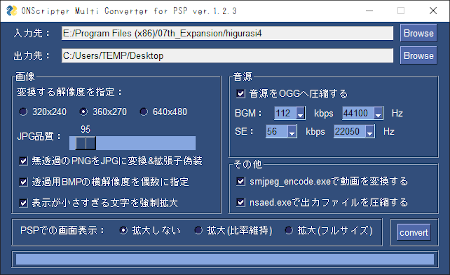
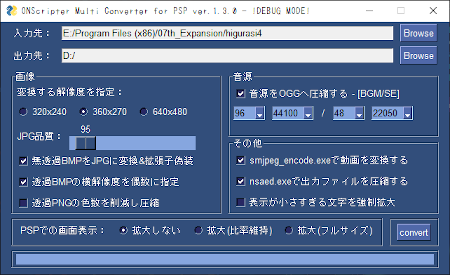
[Update]透過PNG

diff --git a/NSC2ONS4PSP.py b/NSC2ONS4PSP.py
@@ -14,20 +14,34 @@ import os
 import re
 
 ####################################################################################################
-window_title = 'ONScripter Multi Converter for PSP ver.1.2.9'
+window_title = 'ONScripter Multi Converter for PSP ver.1.3.0'
 ####################################################################################################
 
 # -memo-
-# __file__だとexe化時subprocessの相対パス読み込みﾀﾋぬのでsys.argv[0]使う
-# 同じような理由でexit()もsys.exit()にする
-# jsonでの作品個別処理何も実装してねぇ... - v1.3.0で実装
+# __file__だとexe化時subprocessの相対パス読み込みﾀﾋぬのでsys.argv[0]使う - 済
+# 同じような理由でexit()もsys.exit()にする - 済
+# jsonでの作品個別処理何も実装してねぇ... - v1.3.0で実装予定だった - 現在未実装orz
 # os.path.joinを使わないパスの結合をやめないとマズイ気がする - もう無理限界
 
 
-# -最新の更新履歴(v1.2.9)- 
-# .datを弾いてたせいでdat偽装mpgが放置されてたのを修正
-# BGM判定を"ディレクトリ名にbgm(小文字)があるか"から
-#   "名前含むフルパスにBGM(大文字小文字問わず)があるか"に変更
+# -最新の更新履歴(v1.3.0)- 
+# PNG減色圧縮モードの追加
+# !- 非透過PNGは設定関係なく強制圧縮されるようになってます
+#    どうもONS for PSPって背景の色数勝手に落としてるっぽいし...
+#    つまりこの設定で影響が出るのは"256色以上の非透過PNGスプライト"のみ(滅多にないでしょ...?)
+# 上記に伴うUI変更
+#    ちょっとわかりにくくなったけど許して
+# "savedata"ファルダがある作品を変換した際、
+#    勝手に変換後データにも"savedata"ファルダを作成する機能を追加
+# 一部解像度新表記の読み取りに失敗し
+#    勝手に640x480判定になっていたのを修正
+# 画像分割や命令取得の取りこぼしを多少減らした
+#    主にタブとかスペースとか
+# savescreenshot命令を自動削除するように変更
+#    ついでにmpegplay未使用時の命令削除もそれに合わせた書き方に
+# OGG音質設定のビットレート初期値を
+#    それぞれ112→96、56→48へ低下
+
 
 # これを読んだあなた。
 # どうかこんな可読性の欠片もないクソコードを書かないでください。
@@ -176,21 +190,22 @@ frame_1 = sg.Frame('画像', [
 	[sg.Text('JPG品質：'), sg.Slider(range=(100,1), default_value=95, k='jpg_quality', pad=((0,0),(0,0)), orientation='h')],
 	[sg.Checkbox('無透過BMPをJPGに変換&拡張子偽装', k='jpg_mode', default=True)],
 	[sg.Checkbox('透過BMPの横解像度を偶数に指定', k='img_even', default=True)],
-	[sg.Checkbox('表示が小さすぎる文字を強制拡大', k='sw_txtsize', default=True)],
+	[sg.Checkbox('透過PNGの色数を削減し圧縮', k='AlphaPNG_conv', default=False)],
 ], size=(300, 205))
 
 frame_2 = sg.Frame('音源', [
-	[sg.Checkbox('音源をOGGへ圧縮する', k='ogg_mode', default=ffmpeg_exist, disabled=(not ffmpeg_exist))],
-	[sg.Text('BGM：'), sg.Combo(values=(kbps_list), default_value='112', readonly=True, k='BGM_kbps', disabled=(not ffmpeg_exist)), sg.Text('kbps'), 
-	 sg.Combo(values=(Hz_list), default_value='44100', readonly=True, k='BGM_Hz', disabled=(not ffmpeg_exist)), sg.Text('Hz'),],
-	[sg.Text('SE：'), sg.Combo(values=(kbps_list), default_value='56', readonly=True, k='SE_kbps', disabled=(not ffmpeg_exist)), sg.Text('kbps'), 
-	 sg.Combo(values=(Hz_list), default_value='22050', readonly=True, k='SE_Hz', disabled=(not ffmpeg_exist)), sg.Text('Hz'),],
-], size=(300, 125), pad=(0,0))
+	[sg.Checkbox('音源をOGGへ圧縮する - [BGM/SE]', k='ogg_mode', default=ffmpeg_exist, disabled=(not ffmpeg_exist))],
+	[sg.Combo(values=(kbps_list), default_value='96', readonly=True, k='BGM_kbps', disabled=(not ffmpeg_exist)),
+	 sg.Combo(values=(Hz_list), default_value='44100', readonly=True, k='BGM_Hz', disabled=(not ffmpeg_exist)), sg.Text('/'),
+	 sg.Combo(values=(kbps_list), default_value='48', readonly=True, k='SE_kbps', disabled=(not ffmpeg_exist)),
+	 sg.Combo(values=(Hz_list), default_value='22050', readonly=True, k='SE_Hz', disabled=(not ffmpeg_exist)), ],
+], size=(300, 95), pad=(0,0))
 
 frame_3 = sg.Frame('その他', [
 	[sg.Checkbox('smjpeg_encode.exeで動画を変換する', k='vid_flag', default=(smjpeg_exist and ffmpeg_exist), disabled=(not (smjpeg_exist and ffmpeg_exist)))],
 	[sg.Checkbox('nsaed.exeで出力ファイルを圧縮する', k='nsa_mode', default=nsaed_exist, disabled=(not nsaed_exist))],
-], size=(300, 80), pad=(0,0))
+	[sg.Checkbox('表示が小さすぎる文字を強制拡大', k='sw_txtsize', default=False)],
+], size=(300, 110), pad=(0,0))
 
 frame_4 = sg.Frame('', [
 	[sg.Text(' PSPでの画面表示：'), 
@@ -304,7 +319,7 @@ def func_txt_zero(text):
 	global err_flag
 	global per
 
-	newnsc_mode = (r';\$V[0-9]{2,}G([0-9]{2,})S([0-9]{3,}),([0-9]{3,})L[0-9]{2,}')#ONS解像度新表記
+	newnsc_mode = (r';\$V[0-9]{1,}G([0-9]{1,})S([0-9]{1,}),([0-9]{1,})L[0-9]{1,}')#ONS解像度新表記
 	newnsc_search = re.search(newnsc_mode, text)
 	oldnsc_mode = (r';mode([0-9]{3})')#ONS解像度旧表記
 	oldnsc_search = re.search(oldnsc_mode, text)
@@ -362,9 +377,9 @@ def func_txt_all(text):
 	global immode_list_tup
 
 	#-PSPで使用できない命令を無効化する-
-	text = re.sub(r'([\n|\t| |:])avi "(.+?)",([0|1])', r'\1mpegplay "\2",\3', text)#aviをmpegplayで再生(後に拡張子偽装)
-	text = re.sub(r'([\n|\t| |:])okcancelbox %(.+?),', r'\1mov %\2,1 ;', text)#okcancelboxをmovで強制ok
-	text = re.sub(r'([\n|\t| |:])yesnobox %(.+?),', r'\1mov %\2,1 ;', text)#yesnoboxをmovで強制yes
+	text = re.sub(r'([\n|\t| |:])avi[\t\s]+"(.+?)",([0|1]|%[0-9]+)', r'\1mpegplay "\2",\3', text)#aviをmpegplayで再生(後に拡張子偽装)
+	text = re.sub(r'([\n|\t| |:])okcancelbox[\t\s]+%(.+?),', r'\1mov %\2,1 ;', text)#okcancelboxをmovで強制ok
+	text = re.sub(r'([\n|\t| |:])yesnobox[\t\s]+%(.+?),', r'\1mov %\2,1 ;', text)#yesnoboxをmovで強制yes
 
 	text = text.replace('.NBZ', '.wav')#大文字
 	text = text.replace('.nbz', '.wav')#小文字
@@ -398,21 +413,23 @@ def func_txt_all(text):
 	#-txt内の画像の相対パスを格納-
 
 	#[0]が命令文/[3]が(パスの入っている)変数名/[5]が透過形式/[6]が分割数/[8]が相対パス - [3]か[8]はどちらかのみ代入される
-	immode_list_tup += re.findall(r'(ld)[ |\t]+([lcr])[ |\t]*,[ |\t]*((\$?[A-Za-z0-9_]+?)|"(:(.)/?([0-9]+)?(,.+?)?;)?(.+?)")[ |\t]*,[ |\t]*[0-9]+', text)#ld
-	immode_list_tup += re.findall(r'((abs)?setcursor)[ |\t]+%?.+?[ |\t]*,[ |\t]*((\$?[A-Za-z0-9_]+?)|"(:(.)/?([0-9]+)?(,.+?)?;)?(.+?)")([ |\t]*,[ |\t]*(([0-9]{1,3})|(%.+?))){1,3}', text)#setcursor系
-	immode_list_tup += re.findall(r'(lsp(h)?)[ |\t]+%?.+?[ |\t]*,[ |\t]*((\$?[A-Za-z0-9_]+?)|"(:(.)/?([0-9]+)?(,.+?)?;)?(.+?)")([ |\t]*,[ |\t]*(([0-9]{1,3})|(%.+?))){1,3}', text)#lsp系
-	immode_list_tup += re.findall(r'(lsph?2(add|sub)?)[ |\t]+%?.+?[ |\t]*,[ |\t]*((\$?[A-Za-z0-9_]+?)|"(:(.)/?([0-9]+)?(,.+?)?;)?(.+?)")(([ |\t]*,[ |\t]*((-?[0-9]{1,3})|(%.+?))){1,6})?', text)#lsp2系
+	immode_list_tup += re.findall(r'(ld)[\t\s]+([lcr])[\t\s]*,[\t\s]*((\$?[A-Za-z0-9_]+?)|"(:(.)/?([0-9]+)?(,.+?)?;)?(.+?)")[\t\s]*,[\t\s]*[0-9]+', text)#ld
+	immode_list_tup += re.findall(r'((abs)?setcursor)[\t\s]+%?.+?[\t\s]*,[\t\s]*((\$?[A-Za-z0-9_]+?)|"(:(.)/?([0-9]+)?(,.+?)?;)?(.+?)")([\t\s]*,[\t\s]*(([0-9]{1,3})|(%.+?))){1,3}', text)#setcursor系
+	immode_list_tup += re.findall(r'(lsp(h)?)[\t\s]+%?.+?[\t\s]*,[\t\s]*((\$?[A-Za-z0-9_]+?)|"(:(.)/?([0-9]+)?(,.+?)?;)?(.+?)")([\t\s]*,[\t\s]*(([0-9]{1,3})|(%.+?))){1,3}', text)#lsp系
+	immode_list_tup += re.findall(r'(lsph?2(add|sub)?)[\t\s]+%?.+?[\t\s]*,[\t\s]*((\$?[A-Za-z0-9_]+?)|"(:(.)/?([0-9]+)?(,.+?)?;)?(.+?)")(([\t\s]*,[\t\s]*((-?[0-9]{1,3})|(%.+?))){1,6})?', text)#lsp2系
 
 	#[0]が命令文/[1]が変数名/[3]が透過形式/[4]が分割数/[6]が相対パス
-	immode_var_tup += re.findall(r'(stralias|mov)[ |\t]*(\$?[A-Za-z0-9_]+?)[ |\t]*,[ |\t]*"(:(.)/?([0-9]+)?(,.+?)?;)?(.+?)"', text)#パスの入ったmov及びstralias
+	immode_var_tup += re.findall(r'(stralias|mov)[\t\s]*(\$?[A-Za-z0-9_]+?)[\t\s]*,[\t\s]*"(:(.)/?([0-9]+)?(,.+?)?;)?(.+?)"', text)#パスの入ったmov及びstralias
+
+	#savescreenshot抹消(PSPだとクソ重いしほぼ確実に取得サイズずれるし...)
+	text = re.sub(r'savescreenshot2?[\t\s]+"(.+?)"[\t\s]*([:|\n])', r'wait 0\2', text)
 
 	if values['vid_flag']:#動画変換処理を行う場合
 		for a in re.findall(r'mpegplay "(.+?)",([0|1]|%[0-9]+)', text):#txt内の動画の相対パスを格納
 			vid_list_rel.append(a[0])
 
 	else:#動画変換処理を行わない場合
-		text = re.sub(r'mpegplay "(.+?)",([0|1]|%[0-9]+):', r'', text)#if使用時 - 再生部分を抹消
-		text = text.replace('mpegplay ', ';mpegplay ')#再生部分をコメントアウト
+		text = re.sub(r'mpegplay[\t\s]+"(.+?)"[\t\s]*,[\t\s]*([0|1]|%[0-9]+)[\t\s]*([:|\n])', r'wait 0\3', text)
 
 	return text
 
@@ -716,7 +733,7 @@ def func_image_conv(file, file_format):
 					img_mask.putdata(mask_px_list)
 
 	#---立ち絵用横幅偶数指定(ld命令で取りこぼした立ち絵対策)---
-	elif int(img.width) >= 4 and (not immode_nearest) and values['img_even']:#縦横4px以上&透明部分なし&偶数指定ON
+	elif (int(img.width) >= 4) and (not immode_nearest) and values['img_even']:#縦横4px以上&透明部分なし&偶数指定ON
 
 		#---ピクセルの色数を変数に代入---
 		chara_mainL = img.getpixel((1, 1))#本画像部分左上1px - 1
@@ -724,7 +741,7 @@ def func_image_conv(file, file_format):
 		chara_alphaL = img.getpixel((img.width/2, 1))#透過部分左上1px - 3
 		chara_alphaR = img.getpixel((img.width-1, 1))#透過部分右上1px - 4
 
-		if chara_mainL == chara_mainR and chara_alphaL == chara_alphaR == (255,255,255):#1,2が同一&3,4が白	
+		if (chara_mainL == chara_mainR) and (chara_alphaL == chara_alphaR == (255,255,255)):#1,2が同一&3,4が白	
 			sp_val = 2
 
 
@@ -772,11 +789,29 @@ def func_image_conv(file, file_format):
 	else:
 		img_resize = img.resize((result_width, result_height), Image.Resampling.LANCZOS)
 
+	#-----PNG減色-----
+	if file_format == 'PNG':
+		if img_resize.mode == 'RGB':#非透過は強制
+			img_resize = img_resize.quantize(colors=256, method=0, kmeans=100, dither=1)
+
+		elif values['AlphaPNG_conv']:#透過は場合に応じて
+			img_resize.load()
+			alpha = img_resize.split()[-1]
+			img_resize = img_resize.convert('RGB').convert('P', palette=Image.Palette.ADAPTIVE, colors=255)
+			mask = Image.eval(alpha, lambda a: 255 if a <=128 else 0)
+			img_resize.paste(255, mask)
+
 	#-----画像保存-----
-	if immode_cursor or file_format == 'PNG':#カーソルか元々PNG
+	if immode_cursor:#カーソル
 		img_resize.save(file_result, 'PNG')
 
-	elif file_format == 'BMP' and ( immode_nearest or (not values['jpg_mode']) ):#bmpかつLRで呼出またはJPGmode OFF
+	elif (file_format == 'PNG') and (not img_resize.mode == 'RGB') and values['AlphaPNG_conv']:#減色透過PNG
+		img_resize.save(file_result, 'PNG', transparency=255)
+
+	elif (file_format == 'PNG'):#元々PNG
+		img_resize.save(file_result, 'PNG')
+
+	elif (file_format == 'BMP') and ( immode_nearest or (not values['jpg_mode']) ):#bmpかつLRで呼出またはJPGmode OFF
 		img_resize.save(file_result)
 
 	else:#それ以外 - JPGmode ON時のbmp 拡張子偽装
@@ -1051,8 +1086,12 @@ while True:
 			if os.path.exists(os.path.join(values['output_dir'],r'result')):
 				shutil.rmtree(os.path.join(values['output_dir'],r'result'))
 
+			#-----savedataフォルダ作成(無いとエラー出す作品向け)-----
+			if os.path.isdir(os.path.join(values['input_dir'], 'savedata')):
+				os.makedirs(os.path.join(result_dir, 'savedata'))
+
 			shutil.move(result_dir, values['output_dir'])#完成品を移動
-		
+
 			if debug_mode and os.path.isdir(os.path.join(same_hierarchy, 'result_add')):#Debug
 				for f in glob.glob(os.path.join(same_hierarchy, 'result_add', '*')):
 					#result_add内のファイルを完成品へ移動

diff --git a/README.md b/README.md
@@ -53,7 +53,9 @@
 
 ### ツールの設定
  [![インターフェース](./tools/md_ui.png)](./tools/md_ui_full.png)<br>
- ※画像は古いバージョンの場合があります<br>
+ ※画像は古いバージョンや開発中バージョンの場合があります
+
+~~よくわからないなら入力/出力先だけ指定してconvert押せばいいと思います(爆)~~
 
 #### 上段メニュー
  - **入力先**<br>
@@ -82,10 +84,11 @@
  画像の横解像度を偶数にすることによって、<br>
  "立ち絵の横に謎の縦線が表示される"不具合を回避します<br>
 
- - **表示が小さすぎる文字を強制拡大**<br>
- PSPで表示する際に小さすぎて読めないと思われる文字を<br>
- 強制的に文字が潰れない程度のサイズまで拡大します<br>
-
+ - **透過PNGの色数を削減し圧縮**<br>
+ 透過PNGを256色まで減色し、大幅に容量を減らすことが出来ます<br>
+ 仕様として、"黒塗り"と"半透明"が表現できないため<br>
+ 作品によっては大幅に画質が落ちてしまうことがあります<br>
+ 
 #### 音源
  - **音源をOGGへ圧縮する**<br>
  FFmpegを使用し、ゲーム内の全ての音源データを変換します<br>
@@ -96,11 +99,17 @@
  - **smjpeg_encode.exeで動画を変換する**<br>
  シナリオ内の"avi"または"mpegplay"命令で再生する動画を<br>
  "smjpeg_encode.exe"を使ってPSP向けの形式に変換します<br>
+ 動画未使用の作品の場合、特にこの設定に意味はないです<br>
 
  - **nsaed.exeで出力ファイルを圧縮する**<br>
  全ての画像/音源ファイルの変換処理が終了した後に、<br>
  それらを画像、BGM、BGM以外 の3つに分けて <br>
  複数の"arc.nsa"へ分割、圧縮を行います<br>
+
+ - **表示が小さすぎる文字を強制拡大**<br>
+ PSPで表示する際に小さすぎて読めないと思われる文字を<br>
+ 強制的に文字が潰れない程度のサイズまで拡大します<br>
+ ※拡大できる文字はsetwindow命令のみです<br>
 
 #### 下段メニュー
  - **PSPでの画面表示**<br>

diff --git a/TITLELIST.md b/TITLELIST.md
@@ -32,6 +32,8 @@
  - [v1.2.0]はっちゃけあやよさん(NScripter版)
  - [v1.2.0]はっちゃけあやよさん2 いけないホリディ(NScripter版)
  - [v1.2.0]はっちゃけあやよさん3 私、逝っちゃったんです。(NScripter版)
+ - [v1.2.8]はっちゃけあやよさん4 セクシーオリンピック(NScripter版)
+ - [v1.2.9]はっちゃけあやよさん5 ピカピカの小惑星(NScripter版)
 
  v1.2.0からほぼ完璧に動作するようになりました<br>
  アニメーションのズレや画像の透過ミスもなさそう<br>
@@ -44,14 +46,14 @@
 
 ### ねこねこソフト
  - [v1.2.0]銀色 完全版
- - [v1.2.3]朱 -aka-
+ - ~~[v1.2.3]朱 -aka-~~<!>セーブ/ロード不可 原因不明
  - [v1.2.0]サナララ
 
  NScripter製のねこねこ作品を他に持っていないため<br>
  現時点でこれだけしか動作確認が取れていませんが、<br>
  他の作品も割と素直に動作すると思われます<br>
  文字が小さすぎて潰れて読めなかった問題も、<br>
- v1.2.0で解消しました<br>
+ v1.2.0以降の新機能で解消可能です<br>
 
 ### トラウムブルグ7番地
  - [v1.0.0]Bye
